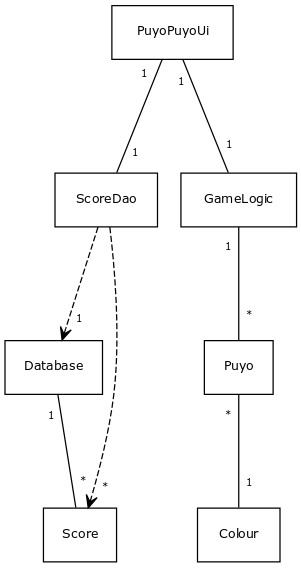
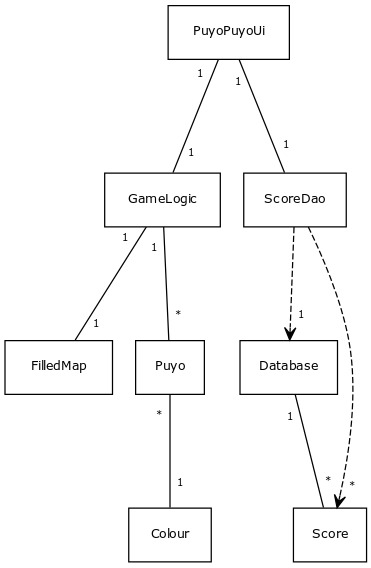
Päivitin luokka- ja pakkauskaavion vastaamaan nykyistä luokkakokoonpanoa.

diff --git a/dokumentointi/tuntikirjanpito.md b/dokumentointi/tuntikirjanpito.md
@@ -21,5 +21,5 @@
 | 24.4  | 1    | Tein ensimmäisen github-releasen. Lisäksi tein sekvenssikaavion Puyojen siirtämisestä oikealle.|
 | 25.4  | 1    | Aloitin Database- ja ScoreDao -luokan testaamisen. Databasen testit on jo tehty, mutta ScoreDaon testejä vasta aloittelin.
 | 28.4  | 3    | Refaktoroin sovellusta. Laitoin GameLogic-luokan filled-nimisen HashMapin omaksi luokakseen FilledMap, joka sisältää tiedon täysistä ruuduista. Aloitin JavaDocin kirjoittamisen sekä jatkoin ohjelman testaamista. Muokkasin sovelluslogiikkaa siten, että uudet Puyot ilmestyvät ruudun keskelle myös isommissa ja pienemmissä kentissä kuin standardikoossa. Myös pelin päättymisehto pätee nyt ruudun keskellä eikä vain (2, 0) ruudussa.
-| 30.4  | 2    | Kirjoitin JavaDoc-dokumentaatiota. Lisäksi kirjoitin sovellukselle käyttöohjeen.
+| 30.4  | 2    | Kirjoitin JavaDoc-dokumentaatiota. Lisäksi kirjoitin sovellukselle käyttöohjeen. Päivitin luokka- ja pakkauskaavion vastaamaan nykyistä luokkakokoonpanoa.
 | summa | 43   |   |
